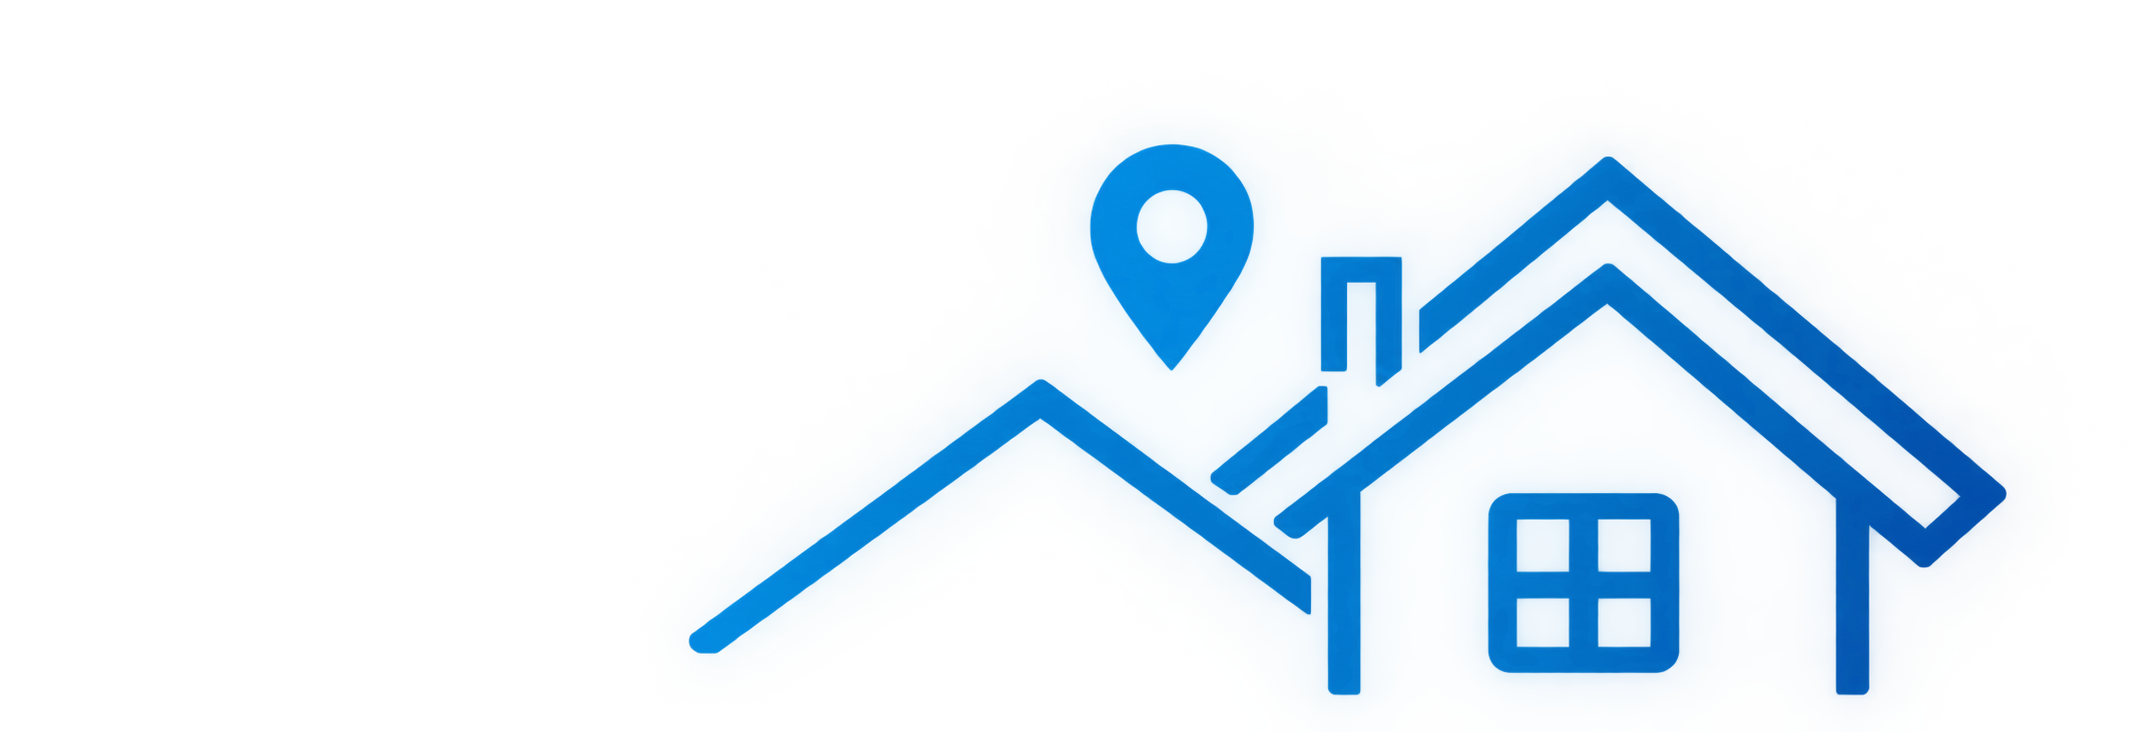
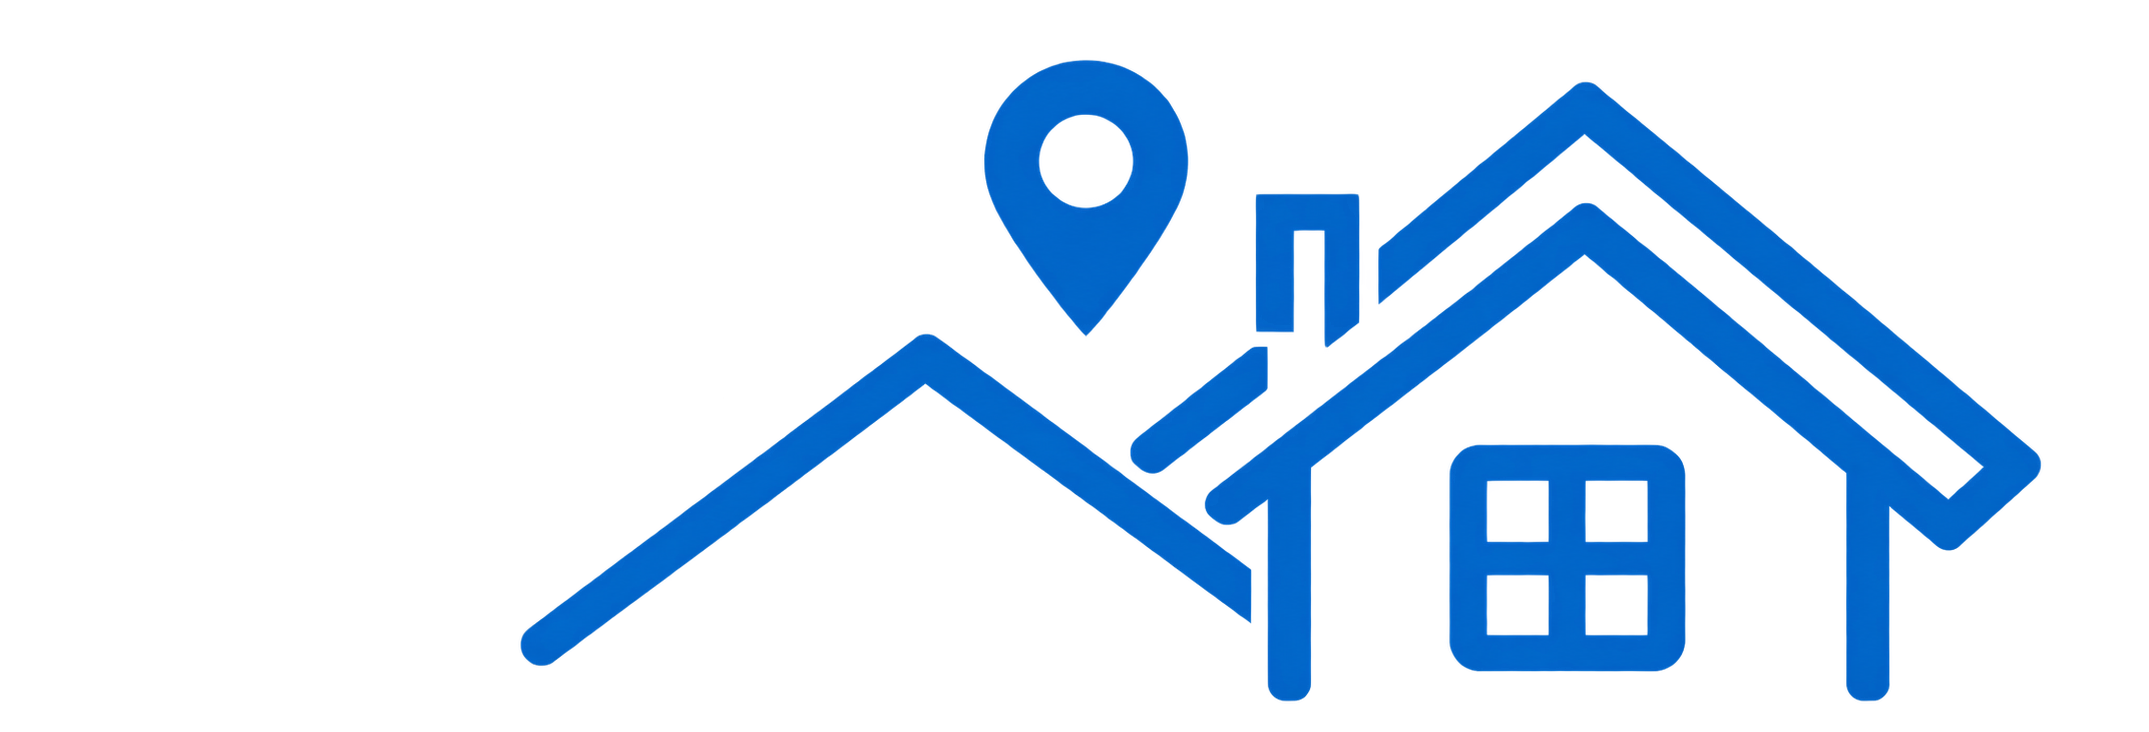
Ajusta nova imagem do hero

Changed region(s): [[0.2182, 0.0601, 0.9665, 0.9617]]

diff --git a/src/App.css b/src/App.css
@@ -1314,10 +1314,13 @@
   .hero-illustration {
     position: absolute;
     right: 5%;
-    bottom: -5px;
-    width: 360px;
+    bottom: -2px;
+    width: min(430px, 38vw);
     height: auto;
-    opacity: 0.72;
+    max-height: 170px;
+    object-fit: contain;
+    object-position: right bottom;
+    opacity: 0.82;
     pointer-events: none;
   }
 
